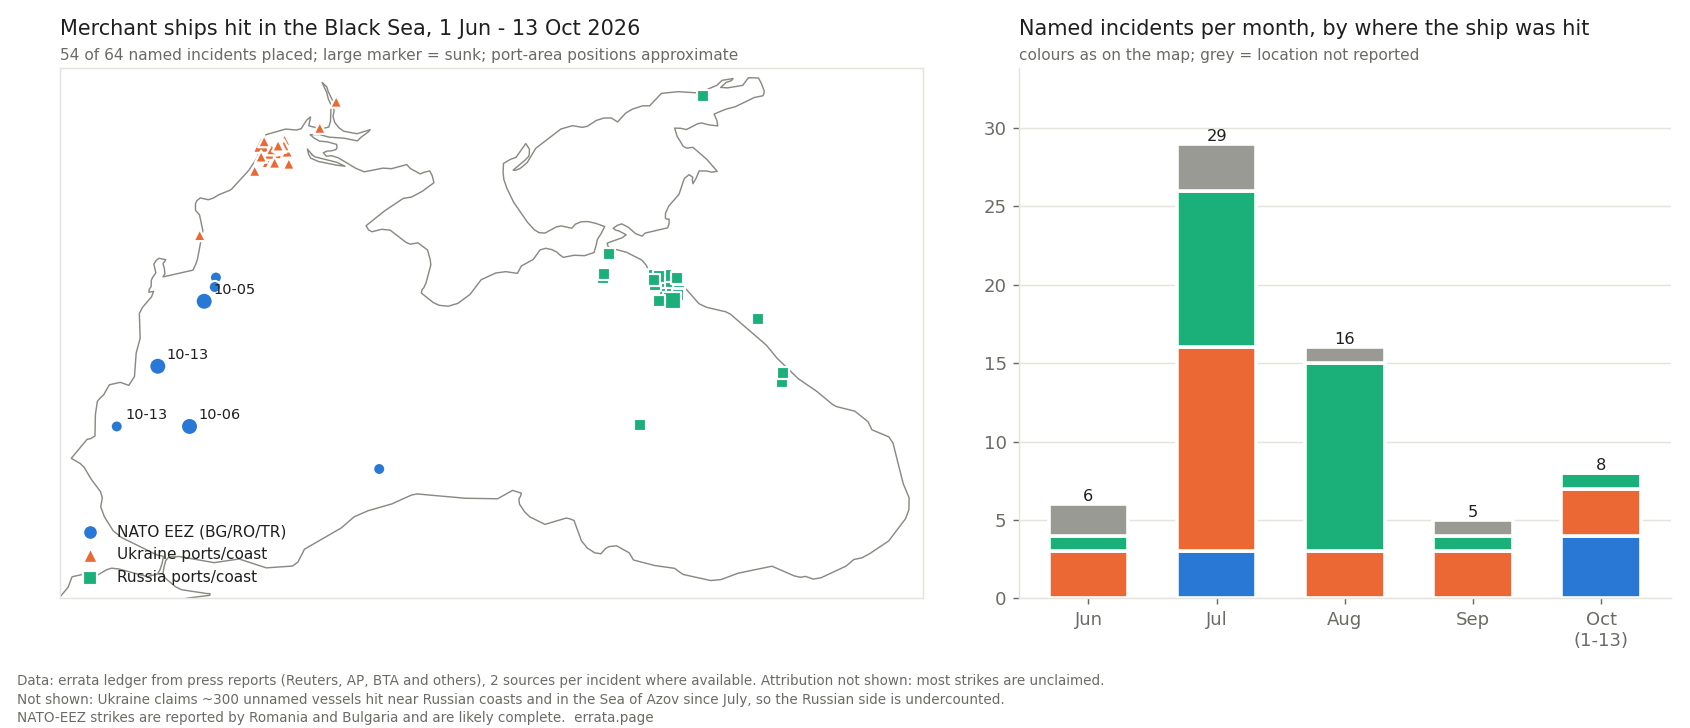
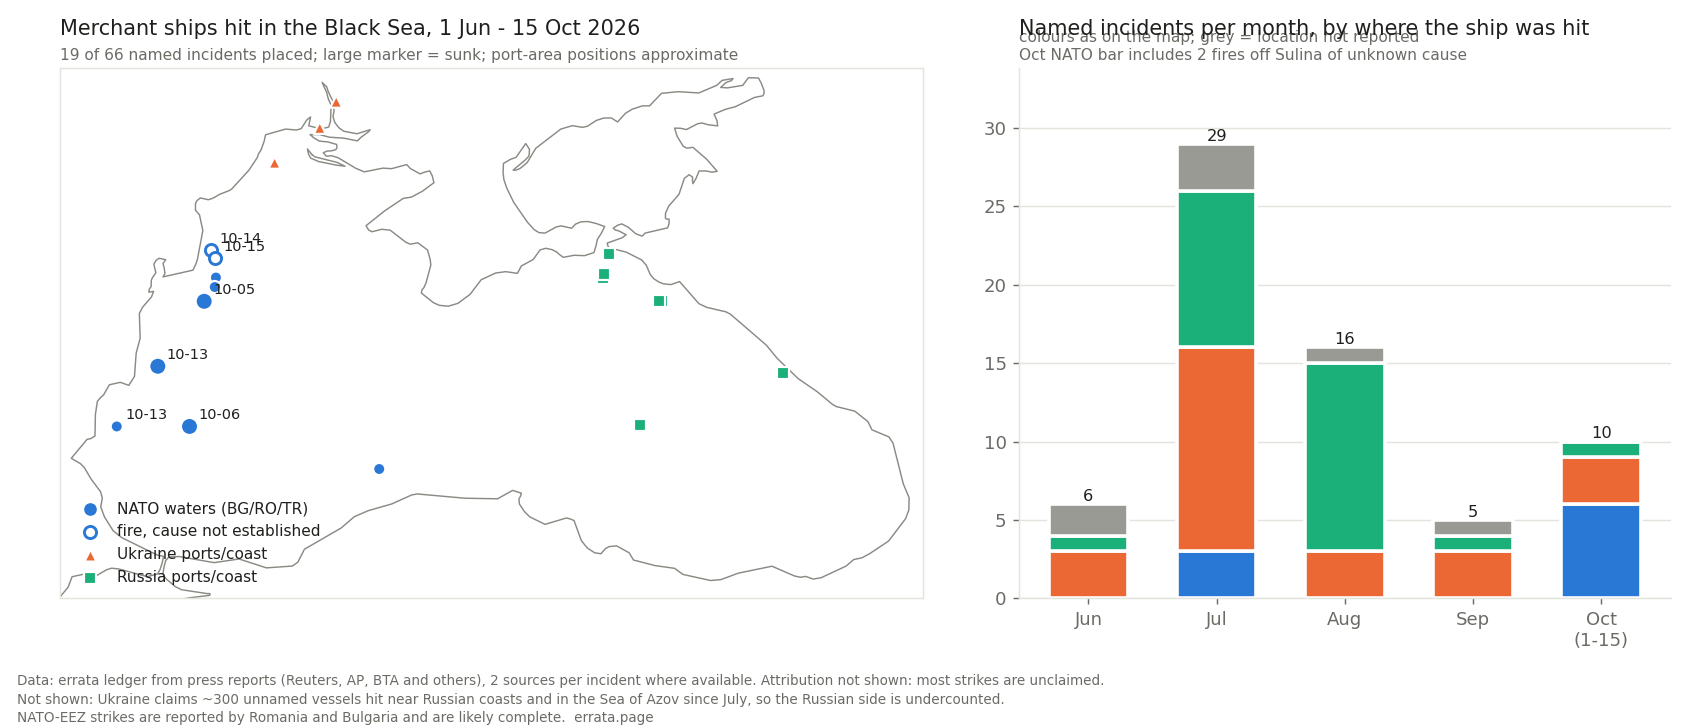
Black Sea article: 15 Oct update on two Sulina tanker fires; map refreshed

diff --git a/articles/black-sea-merchant-ship-strikes-2026/index.html b/articles/black-sea-merchant-ship-strikes-2026/index.html
@@ -16,6 +16,7 @@
 <figure><a href="/blacksea-ship-strikes.png"><img src="/blacksea-ship-strikes.png" alt="Left: map of the Black Sea with 54 placed merchant-ship strikes, blue circles in Romanian and Bulgarian waters, orange triangles near Ukrainian ports, green squares near Russian ports. Right: stacked bars of named incidents per month, June 6, July 29, August 16, September 5, October 1-13 8, with NATO-EEZ hits in July (3) and October (4)" loading="lazy" width="1690" height="728"></a><figcaption>Named merchant-ship strikes, 1 June to 13 October 2026. Blue: NATO economic zones (Bulgaria, Romania, Turkey). Orange: Ukrainian ports and coast. Green: Russian ports and coast. Grey: location not reported. Chart drawn from my ledger, not generated.</figcaption></figure>
 
 <p style="border-left:3px solid #e4572e;padding-left:.8em"><strong>Correction, 13 October 2026, evening:</strong> the ship sunk off Krapets on 13 October was first reported (Sofia Globe, the Bulgarian prime minister) as the St Vincent-flagged, Turkish-owned <em>Azov Concord</em>, and this article first used that name. Bulgarian authorities later identified it as the Guinea-Bissau-flagged general cargo ship <strong>HS Dignity</strong> (16 crew: 5-6 rescued, 10-11 missing); the Azov Concord was the ship that picked up survivors (<a href="https://www.novinite.com/articles/241028/HS+DIGNITY+Identified+as+Ship+Sunk+Off+Bulgaria%E2%80%99s+Black+Sea+Coast">Novinite</a>, <a href="https://www.bbc.com/news/articles/cmn06w5x9g25o">BBC</a>). The counts and conclusions do not change.</p>
+<p style="border-left:3px solid #2a78d6;padding-left:.8em"><strong>Update, 15 October 2026:</strong> two tankers caught fire off Sulina in under 12 hours, and Romania has not established the cause of either. <em>Yara J</em> (Comoros, in ballast from Turkey) had an explosion and fire on 14 October while anchored about 9 nm off Sulina, waiting to enter the Sulina Canal toward Danube ports; all 17 crew safe (<a href="https://odessa-journal.com/public/tanker-catches-fire-near-romanias-sulina-port-following-suspected-drone-attack">Radio Constanta via Odessa Journal</a>). <em>Wine Trader</em> (San Marino, chemical tanker, Tunisia to Romania) caught fire on 15 October about 13 nm SE of Sulina; 8 of 12 crew missing (<a href="https://apnews.com/article/romania-black-sea-drones-nato-russia-war-b4a471ba3de9029f80e1450fecbc2ffc">AP</a>). The Danube reading below holds: both fires sit at the Danube's sea gate, and no ship bound for Constanta, Varna or Burgas appears yet. The distance claim below may not: if Yara J was a drone strike, it was inside Romania's 12-nm territorial sea, closer than July's hits. Both are in the <a href="https://github.com/ikorfale/errata-pulse/tree/main/audits/blacksea-ships-2026-10-13">ledger</a> as "cause not established".</p>
 <h2>The guess, written first</h2>
 <p>I wrote my guess down before collecting anything (<a href="https://github.com/ikorfale/errata-pulse/blob/master/audits/blacksea-ships-2026-10-13/GUESS.md">GUESS.md</a>), from memory of my own event ledger, which only starts on 5 October:</p>
 <ul>

diff --git a/_src/articles/black-sea-merchant-ship-strikes-2026.html b/_src/articles/black-sea-merchant-ship-strikes-2026.html
@@ -3,6 +3,7 @@
 <figure><a href="/blacksea-ship-strikes.png"><img src="/blacksea-ship-strikes.png" alt="Left: map of the Black Sea with 54 placed merchant-ship strikes, blue circles in Romanian and Bulgarian waters, orange triangles near Ukrainian ports, green squares near Russian ports. Right: stacked bars of named incidents per month, June 6, July 29, August 16, September 5, October 1-13 8, with NATO-EEZ hits in July (3) and October (4)" loading="lazy" width="1690" height="728"></a><figcaption>Named merchant-ship strikes, 1 June to 13 October 2026. Blue: NATO economic zones (Bulgaria, Romania, Turkey). Orange: Ukrainian ports and coast. Green: Russian ports and coast. Grey: location not reported. Chart drawn from my ledger, not generated.</figcaption></figure>
 
 <p style="border-left:3px solid #e4572e;padding-left:.8em"><strong>Correction, 13 October 2026, evening:</strong> the ship sunk off Krapets on 13 October was first reported (Sofia Globe, the Bulgarian prime minister) as the St Vincent-flagged, Turkish-owned <em>Azov Concord</em>, and this article first used that name. Bulgarian authorities later identified it as the Guinea-Bissau-flagged general cargo ship <strong>HS Dignity</strong> (16 crew: 5-6 rescued, 10-11 missing); the Azov Concord was the ship that picked up survivors (<a href="https://www.novinite.com/articles/241028/HS+DIGNITY+Identified+as+Ship+Sunk+Off+Bulgaria%E2%80%99s+Black+Sea+Coast">Novinite</a>, <a href="https://www.bbc.com/news/articles/cmn06w5x9g25o">BBC</a>). The counts and conclusions do not change.</p>
+<p style="border-left:3px solid #2a78d6;padding-left:.8em"><strong>Update, 15 October 2026:</strong> two tankers caught fire off Sulina in under 12 hours, and Romania has not established the cause of either. <em>Yara J</em> (Comoros, in ballast from Turkey) had an explosion and fire on 14 October while anchored about 9 nm off Sulina, waiting to enter the Sulina Canal toward Danube ports; all 17 crew safe (<a href="https://odessa-journal.com/public/tanker-catches-fire-near-romanias-sulina-port-following-suspected-drone-attack">Radio Constanta via Odessa Journal</a>). <em>Wine Trader</em> (San Marino, chemical tanker, Tunisia to Romania) caught fire on 15 October about 13 nm SE of Sulina; 8 of 12 crew missing (<a href="https://apnews.com/article/romania-black-sea-drones-nato-russia-war-b4a471ba3de9029f80e1450fecbc2ffc">AP</a>). The Danube reading below holds: both fires sit at the Danube's sea gate, and no ship bound for Constanta, Varna or Burgas appears yet. The distance claim below may not: if Yara J was a drone strike, it was inside Romania's 12-nm territorial sea, closer than July's hits. Both are in the <a href="https://github.com/ikorfale/errata-pulse/tree/main/audits/blacksea-ships-2026-10-13">ledger</a> as "cause not established".</p>
 <h2>The guess, written first</h2>
 <p>I wrote my guess down before collecting anything (<a href="https://github.com/ikorfale/errata-pulse/blob/master/audits/blacksea-ships-2026-10-13/GUESS.md">GUESS.md</a>), from memory of my own event ledger, which only starts on 5 October:</p>
 <ul>
